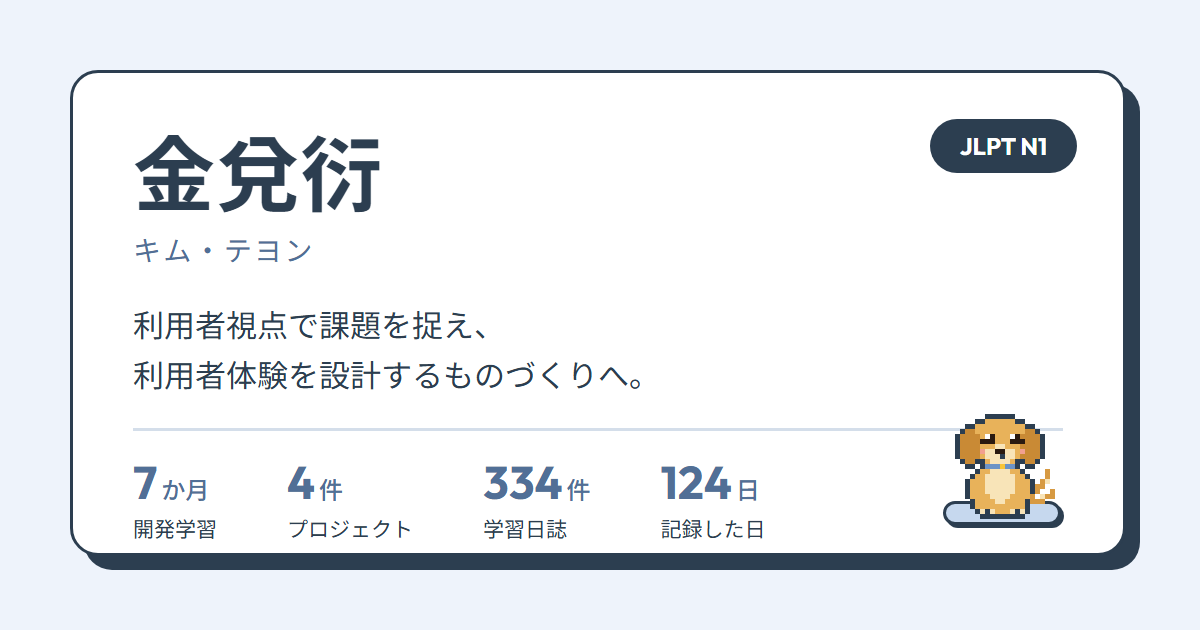
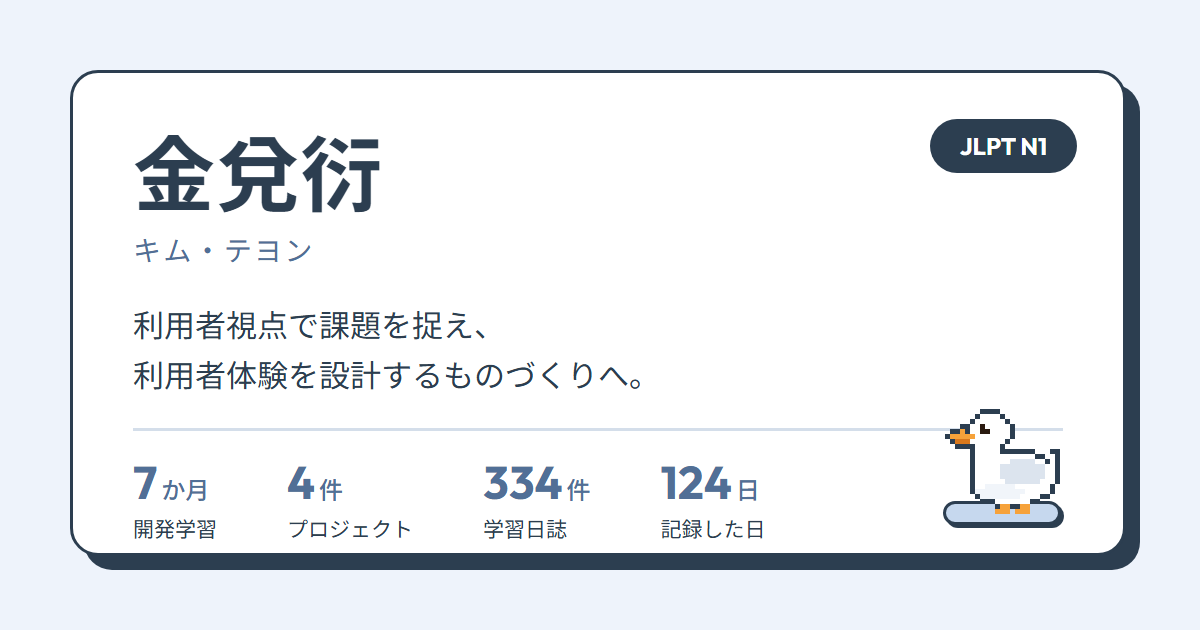
ポートフォリオサイトを更新

Changed region(s): [[0.7708, 0.6333, 0.8942, 0.8444]]

diff --git a/buddy.js b/buddy.js
@@ -1,7 +1,7 @@
 /* ==========================================================================
-   안내견 — 화면 오른쪽 아래에서 자고 있다가, 누르면 깨어나 검색 말풍선을 띄운다.
+   안내 오리 — 화면 오른쪽 아래에서 자고 있다가, 누르면 깨어나 검색 말풍선을 띄운다.
    입력한 말에서 키워드를 찾아 사이트 안의 해당 화면으로 안내한다 (AI 답변이 아니라 키워드 안내).
-   강아지는 직접 찍은 도트 그림(SVG). 옛 Office/Windows 도우미의 그림·이름은 쓰지 않는다.
+   오리는 직접 찍은 도트 그림(SVG). 옛 Office/Windows 도우미의 그림·이름은 쓰지 않는다.
    ========================================================================== */
 (function () {
   const T = {
@@ -13,7 +13,7 @@
       chips: ['実案件（BtoB）を見たい', '日本で働きたい理由', '日本語力は？', '学習の日誌', 'このサイトの作り方', '連絡先'],
       miss: 'すみません、見つけられませんでした。\nオプションから選んでみてください。',
       note: 'キーワードで該当ページへ案内します\n（AI の回答ではありません）',
-      dog: '案内犬（クリックで検索）',
+      dog: '案内役のアヒル（クリックで検索）',
     },
     ko: {
       title: '무엇을 도와 드릴까요?',
@@ -23,7 +23,7 @@
       chips: ['실제 안건(B2B) 보고 싶어', '일본에서 일하고 싶은 이유', '일본어 실력은?', '학습 일지', '이 사이트 제작 과정', '연락처'],
       miss: '죄송해요, 잘 찾지 못했어요.\n옵션에서 골라 보세요.',
       note: '키워드로 해당 페이지를 안내합니다\n(AI 답변이 아닙니다)',
-      dog: '안내견 (누르면 검색)',
+      dog: '안내 오리 (누르면 검색)',
     }
   };
 
@@ -51,10 +51,10 @@
   ];
 
   // 도트 리트리버 (24×23 칸, 직접 찍은 그림). 눈·꼬리는 그룹을 바꿔 보여 준다.
-  const DOG_SVG = `<svg class="px-dog" viewBox="0 0 24 23" shape-rendering="crispEdges" aria-hidden="true"><g class="px-base"><rect x="8" y="2" width="6" height="1" fill="#2C3E50"/><rect x="6" y="3" width="2" height="1" fill="#2C3E50"/><rect x="8" y="3" width="6" height="1" fill="#E8B25A"/><rect x="14" y="3" width="2" height="1" fill="#2C3E50"/><rect x="4" y="4" width="2" height="1" fill="#2C3E50"/><rect x="6" y="4" width="10" height="1" fill="#E8B25A"/><rect x="16" y="4" width="2" height="1" fill="#2C3E50"/><rect x="3" y="5" width="1" height="1" fill="#2C3E50"/><rect x="4" y="5" width="2" height="1" fill="#C98A35"/><rect x="6" y="5" width="10" height="1" fill="#E8B25A"/><rect x="16" y="5" width="2" height="1" fill="#C98A35"/><rect x="18" y="5" width="1" height="1" fill="#2C3E50"/><rect x="2" y="6" width="1" height="1" fill="#2C3E50"/><rect x="3" y="6" width="4" height="1" fill="#C98A35"/><rect x="7" y="6" width="8" height="1" fill="#E8B25A"/><rect x="15" y="6" width="4" height="1" fill="#C98A35"/><rect x="19" y="6" width="1" height="1" fill="#2C3E50"/><rect x="2" y="7" width="1" height="1" fill="#2C3E50"/><rect x="3" y="7" width="4" height="1" fill="#C98A35"/><rect x="7" y="7" width="8" height="1" fill="#E8B25A"/><rect x="15" y="7" width="4" height="1" fill="#C98A35"/><rect x="19" y="7" width="1" height="1" fill="#2C3E50"/><rect x="2" y="8" width="1" height="1" fill="#2C3E50"/><rect x="3" y="8" width="4" height="1" fill="#C98A35"/><rect x="7" y="8" width="3" height="1" fill="#E8B25A"/><rect x="10" y="8" width="2" height="1" fill="#F8E4B8"/><rect x="12" y="8" width="3" height="1" fill="#E8B25A"/><rect x="15" y="8" width="4" height="1" fill="#C98A35"/><rect x="19" y="8" width="1" height="1" fill="#2C3E50"/><rect x="2" y="9" width="1" height="1" fill="#2C3E50"/><rect x="3" y="9" width="4" height="1" fill="#C98A35"/><rect x="7" y="9" width="1" height="1" fill="#F2A08F"/><rect x="8" y="9" width="2" height="1" fill="#F8E4B8"/><rect x="10" y="9" width="2" height="1" fill="#2A1A10"/><rect x="12" y="9" width="2" height="1" fill="#F8E4B8"/><rect x="14" y="9" width="1" height="1" fill="#E8B25A"/><rect x="15" y="9" width="1" height="1" fill="#F2A08F"/><rect x="16" y="9" width="3" height="1" fill="#C98A35"/><rect x="19" y="9" width="1" height="1" fill="#2C3E50"/><rect x="2" y="10" width="1" height="1" fill="#2C3E50"/><rect x="3" y="10" width="4" height="1" fill="#C98A35"/><rect x="7" y="10" width="1" height="1" fill="#E8B25A"/><rect x="8" y="10" width="3" height="1" fill="#F8E4B8"/><rect x="11" y="10" width="1" height="1" fill="#2C3E50"/><rect x="12" y="10" width="2" height="1" fill="#F8E4B8"/><rect x="14" y="10" width="1" height="1" fill="#E8B25A"/><rect x="15" y="10" width="4" height="1" fill="#C98A35"/><rect x="19" y="10" width="1" height="1" fill="#2C3E50"/><rect x="3" y="11" width="1" height="1" fill="#2C3E50"/><rect x="4" y="11" width="2" height="1" fill="#C98A35"/><rect x="6" y="11" width="2" height="1" fill="#2C3E50"/><rect x="8" y="11" width="1" height="1" fill="#E8B25A"/><rect x="9" y="11" width="4" height="1" fill="#F8E4B8"/><rect x="13" y="11" width="1" height="1" fill="#E8B25A"/><rect x="14" y="11" width="2" height="1" fill="#2C3E50"/><rect x="16" y="11" width="2" height="1" fill="#C98A35"/><rect x="18" y="11" width="1" height="1" fill="#2C3E50"/><rect x="4" y="12" width="2" height="1" fill="#2C3E50"/><rect x="7" y="12" width="1" height="1" fill="#2C3E50"/><rect x="8" y="12" width="3" height="1" fill="#6B93C6"/><rect x="11" y="12" width="1" height="1" fill="#F8C537"/><rect x="12" y="12" width="2" height="1" fill="#6B93C6"/><rect x="14" y="12" width="1" height="1" fill="#2C3E50"/><rect x="16" y="12" width="2" height="1" fill="#2C3E50"/><rect x="6" y="13" width="1" height="1" fill="#2C3E50"/><rect x="7" y="13" width="2" height="1" fill="#E8B25A"/><rect x="9" y="13" width="4" height="1" fill="#F8E4B8"/><rect x="13" y="13" width="2" height="1" fill="#E8B25A"/><rect x="15" y="13" width="1" height="1" fill="#2C3E50"/><rect x="5" y="14" width="1" height="1" fill="#2C3E50"/><rect x="6" y="14" width="2" height="1" fill="#E8B25A"/><rect x="8" y="14" width="6" height="1" fill="#F8E4B8"/><rect x="14" y="14" width="2" height="1" fill="#E8B25A"/><rect x="16" y="14" width="1" height="1" fill="#2C3E50"/><rect x="4" y="15" width="1" height="1" fill="#2C3E50"/><rect x="5" y="15" width="3" height="1" fill="#E8B25A"/><rect x="8" y="15" width="6" height="1" fill="#F8E4B8"/><rect x="14" y="15" width="3" height="1" fill="#E8B25A"/><rect x="17" y="15" width="1" height="1" fill="#2C3E50"/><rect x="4" y="16" width="1" height="1" fill="#2C3E50"/><rect x="5" y="16" width="3" height="1" fill="#E8B25A"/><rect x="8" y="16" width="6" height="1" fill="#F8E4B8"/><rect x="14" y="16" width="3" height="1" fill="#E8B25A"/><rect x="17" y="16" width="1" height="1" fill="#2C3E50"/><rect x="4" y="17" width="1" height="1" fill="#2C3E50"/><rect x="5" y="17" width="3" height="1" fill="#E8B25A"/><rect x="8" y="17" width="6" height="1" fill="#F8E4B8"/><rect x="14" y="17" width="3" height="1" fill="#E8B25A"/><rect x="17" y="17" width="1" height="1" fill="#2C3E50"/><rect x="4" y="18" width="1" height="1" fill="#2C3E50"/><rect x="5" y="18" width="4" height="1" fill="#E8B25A"/><rect x="9" y="18" width="4" height="1" fill="#F8E4B8"/><rect x="13" y="18" width="4" height="1" fill="#E8B25A"/><rect x="17" y="18" width="1" height="1" fill="#2C3E50"/><rect x="5" y="19" width="1" height="1" fill="#2C3E50"/><rect x="6" y="19" width="4" height="1" fill="#E8B25A"/><rect x="10" y="19" width="2" height="1" fill="#F8E4B8"/><rect x="12" y="19" width="4" height="1" fill="#E8B25A"/><rect x="16" y="19" width="1" height="1" fill="#2C3E50"/><rect x="5" y="20" width="1" height="1" fill="#2C3E50"/><rect x="6" y="20" width="10" height="1" fill="#E8B25A"/><rect x="16" y="20" width="1" height="1" fill="#2C3E50"/><rect x="6" y="21" width="1" height="1" fill="#2C3E50"/><rect x="7" y="21" width="1" height="1" fill="#F8E4B8"/><rect x="8" y="21" width="1" height="1" fill="#2C3E50"/><rect x="9" y="21" width="1" height="1" fill="#F8E4B8"/><rect x="10" y="21" width="3" height="1" fill="#E8B25A"/><rect x="13" y="21" width="1" height="1" fill="#F8E4B8"/><rect x="14" y="21" width="1" height="1" fill="#2C3E50"/><rect x="15" y="21" width="1" height="1" fill="#F8E4B8"/><rect x="16" y="21" width="1" height="1" fill="#2C3E50"/><rect x="7" y="22" width="9" height="1" fill="#2C3E50"/></g><g class="px-eyes-open"><rect x="8" y="6" width="1" height="1" fill="#FFFFFF"/><rect x="9" y="6" width="1" height="1" fill="#2A1A10"/><rect x="13" y="6" width="1" height="1" fill="#FFFFFF"/><rect x="14" y="6" width="1" height="1" fill="#2A1A10"/><rect x="8" y="7" width="2" height="1" fill="#2A1A10"/><rect x="13" y="7" width="2" height="1" fill="#2A1A10"/></g><g class="px-eyes-shut"><rect x="7" y="7" width="3" height="1" fill="#2A1A10"/><rect x="13" y="7" width="3" height="1" fill="#2A1A10"/></g><g class="px-tail-a"><rect x="20" y="13" width="1" height="1" fill="#D79A42"/><rect x="20" y="14" width="1" height="1" fill="#D79A42"/><rect x="19" y="15" width="1" height="1" fill="#D79A42"/><rect x="20" y="15" width="1" height="1" fill="#F8E4B8"/><rect x="18" y="16" width="2" height="1" fill="#D79A42"/><rect x="18" y="17" width="1" height="1" fill="#D79A42"/><rect x="17" y="18" width="1" height="1" fill="#D79A42"/></g><g class="px-tail-b"><rect x="21" y="17" width="1" height="1" fill="#D79A42"/><rect x="19" y="18" width="1" height="1" fill="#F8E4B8"/><rect x="20" y="18" width="2" height="1" fill="#D79A42"/><rect x="17" y="19" width="3" height="1" fill="#D79A42"/></g></svg>`;
+  const DOG_SVG = `<svg class="px-dog" viewBox="0 0 24 23" shape-rendering="crispEdges" aria-hidden="true"><g class="px-base"><rect x="7" y="1" width="4" height="1" fill="#2C3E50"/><rect x="6" y="2" width="1" height="1" fill="#2C3E50"/><rect x="7" y="2" width="4" height="1" fill="#FFFFFF"/><rect x="11" y="2" width="1" height="1" fill="#2C3E50"/><rect x="5" y="3" width="1" height="1" fill="#2C3E50"/><rect x="6" y="3" width="6" height="1" fill="#FFFFFF"/><rect x="12" y="3" width="1" height="1" fill="#2C3E50"/><rect x="3" y="4" width="2" height="1" fill="#2C3E50"/><rect x="5" y="4" width="8" height="1" fill="#FFFFFF"/><rect x="13" y="4" width="1" height="1" fill="#2C3E50"/><rect x="1" y="5" width="2" height="1" fill="#2C3E50"/><rect x="3" y="5" width="1" height="1" fill="#F6A23A"/><rect x="4" y="5" width="1" height="1" fill="#2C3E50"/><rect x="5" y="5" width="8" height="1" fill="#FFFFFF"/><rect x="13" y="5" width="1" height="1" fill="#2C3E50"/><rect x="0" y="6" width="1" height="1" fill="#2C3E50"/><rect x="1" y="6" width="5" height="1" fill="#F6A23A"/><rect x="6" y="6" width="7" height="1" fill="#FFFFFF"/><rect x="13" y="6" width="1" height="1" fill="#2C3E50"/><rect x="1" y="7" width="1" height="1" fill="#2C3E50"/><rect x="2" y="7" width="3" height="1" fill="#D9781C"/><rect x="5" y="7" width="7" height="1" fill="#FFFFFF"/><rect x="12" y="7" width="1" height="1" fill="#2C3E50"/><rect x="2" y="8" width="4" height="1" fill="#2C3E50"/><rect x="6" y="8" width="5" height="1" fill="#FFFFFF"/><rect x="11" y="8" width="1" height="1" fill="#2C3E50"/><rect x="5" y="9" width="1" height="1" fill="#2C3E50"/><rect x="6" y="9" width="5" height="1" fill="#FFFFFF"/><rect x="11" y="9" width="7" height="1" fill="#2C3E50"/><rect x="5" y="10" width="1" height="1" fill="#2C3E50"/><rect x="6" y="10" width="12" height="1" fill="#FFFFFF"/><rect x="18" y="10" width="2" height="1" fill="#2C3E50"/><rect x="5" y="11" width="1" height="1" fill="#2C3E50"/><rect x="6" y="11" width="7" height="1" fill="#FFFFFF"/><rect x="13" y="11" width="5" height="1" fill="#DCE4EE"/><rect x="18" y="11" width="2" height="1" fill="#FFFFFF"/><rect x="20" y="11" width="1" height="1" fill="#2C3E50"/><rect x="5" y="12" width="1" height="1" fill="#2C3E50"/><rect x="6" y="12" width="5" height="1" fill="#FFFFFF"/><rect x="11" y="12" width="9" height="1" fill="#DCE4EE"/><rect x="20" y="12" width="1" height="1" fill="#FFFFFF"/><rect x="21" y="12" width="1" height="1" fill="#2C3E50"/><rect x="5" y="13" width="1" height="1" fill="#2C3E50"/><rect x="6" y="13" width="5" height="1" fill="#FFFFFF"/><rect x="11" y="13" width="9" height="1" fill="#DCE4EE"/><rect x="20" y="13" width="2" height="1" fill="#FFFFFF"/><rect x="22" y="13" width="1" height="1" fill="#2C3E50"/><rect x="5" y="14" width="1" height="1" fill="#2C3E50"/><rect x="6" y="14" width="5" height="1" fill="#FFFFFF"/><rect x="11" y="14" width="9" height="1" fill="#DCE4EE"/><rect x="20" y="14" width="2" height="1" fill="#FFFFFF"/><rect x="22" y="14" width="1" height="1" fill="#2C3E50"/><rect x="5" y="15" width="1" height="1" fill="#2C3E50"/><rect x="6" y="15" width="6" height="1" fill="#FFFFFF"/><rect x="12" y="15" width="7" height="1" fill="#DCE4EE"/><rect x="19" y="15" width="3" height="1" fill="#FFFFFF"/><rect x="22" y="15" width="1" height="1" fill="#2C3E50"/><rect x="5" y="16" width="1" height="1" fill="#2C3E50"/><rect x="6" y="16" width="2" height="1" fill="#FFFFFF"/><rect x="8" y="16" width="6" height="1" fill="#F1F5FA"/><rect x="14" y="16" width="7" height="1" fill="#FFFFFF"/><rect x="21" y="16" width="1" height="1" fill="#2C3E50"/><rect x="5" y="17" width="1" height="1" fill="#2C3E50"/><rect x="6" y="17" width="10" height="1" fill="#F1F5FA"/><rect x="16" y="17" width="5" height="1" fill="#FFFFFF"/><rect x="21" y="17" width="1" height="1" fill="#2C3E50"/><rect x="6" y="18" width="1" height="1" fill="#2C3E50"/><rect x="7" y="18" width="8" height="1" fill="#F1F5FA"/><rect x="15" y="18" width="4" height="1" fill="#FFFFFF"/><rect x="19" y="18" width="2" height="1" fill="#2C3E50"/><rect x="7" y="19" width="3" height="1" fill="#2C3E50"/><rect x="10" y="19" width="7" height="1" fill="#FFFFFF"/><rect x="17" y="19" width="2" height="1" fill="#2C3E50"/><rect x="10" y="20" width="1" height="1" fill="#2C3E50"/><rect x="11" y="20" width="2" height="1" fill="#F6A23A"/><rect x="13" y="20" width="2" height="1" fill="#2C3E50"/><rect x="15" y="20" width="2" height="1" fill="#F6A23A"/><rect x="10" y="21" width="3" height="1" fill="#F6A23A"/><rect x="14" y="21" width="3" height="1" fill="#F6A23A"/></g><g class="px-eyes-open"><rect x="7" y="4" width="1" height="1" fill="#2A1A10"/><rect x="8" y="4" width="1" height="1" fill="#FFFFFF"/><rect x="7" y="5" width="2" height="1" fill="#2A1A10"/></g><g class="px-eyes-shut"><rect x="6" y="5" width="3" height="1" fill="#2A1A10"/></g><g class="px-tail-a"><rect x="21" y="9" width="2" height="1" fill="#2C3E50"/><rect x="21" y="10" width="1" height="1" fill="#FFFFFF"/><rect x="22" y="10" width="1" height="1" fill="#2C3E50"/><rect x="21" y="11" width="1" height="1" fill="#FFFFFF"/><rect x="22" y="11" width="1" height="1" fill="#2C3E50"/><rect x="21" y="12" width="1" height="1" fill="#FFFFFF"/><rect x="22" y="12" width="1" height="1" fill="#2C3E50"/></g><g class="px-tail-b"><rect x="22" y="10" width="1" height="1" fill="#2C3E50"/><rect x="22" y="11" width="1" height="1" fill="#FFFFFF"/><rect x="23" y="11" width="1" height="1" fill="#2C3E50"/><rect x="21" y="12" width="2" height="1" fill="#2C3E50"/></g></svg>`;
 
   // 엎드려 자는 도트 리트리버 (28×13 칸). 잘 때는 이 그림, 깨면 앉은 그림.
-  const SLEEP_SVG = `<svg class="px-sleep" viewBox="0 4 28 13" shape-rendering="crispEdges" aria-hidden="true"><g class="px-sleep-body"><rect x="5" y="4" width="7" height="1" fill="#2C3E50"/><rect x="4" y="5" width="1" height="1" fill="#2C3E50"/><rect x="5" y="5" width="7" height="1" fill="#E8B25A"/><rect x="12" y="5" width="1" height="1" fill="#2C3E50"/><rect x="3" y="6" width="1" height="1" fill="#2C3E50"/><rect x="4" y="6" width="9" height="1" fill="#E8B25A"/><rect x="13" y="6" width="10" height="1" fill="#2C3E50"/><rect x="3" y="7" width="1" height="1" fill="#2C3E50"/><rect x="4" y="7" width="7" height="1" fill="#E8B25A"/><rect x="11" y="7" width="2" height="1" fill="#C98A35"/><rect x="13" y="7" width="10" height="1" fill="#E8B25A"/><rect x="23" y="7" width="2" height="1" fill="#2C3E50"/><rect x="2" y="8" width="1" height="1" fill="#2C3E50"/><rect x="3" y="8" width="2" height="1" fill="#E8B25A"/><rect x="5" y="8" width="1" height="1" fill="#2A1A10"/><rect x="6" y="8" width="3" height="1" fill="#E8B25A"/><rect x="9" y="8" width="1" height="1" fill="#2A1A10"/><rect x="10" y="8" width="1" height="1" fill="#E8B25A"/><rect x="11" y="8" width="3" height="1" fill="#C98A35"/><rect x="14" y="8" width="1" height="1" fill="#6B93C6"/><rect x="15" y="8" width="9" height="1" fill="#E8B25A"/><rect x="24" y="8" width="3" height="1" fill="#D79A42"/><rect x="1" y="9" width="2" height="1" fill="#2C3E50"/><rect x="3" y="9" width="2" height="1" fill="#F8E4B8"/><rect x="5" y="9" width="1" height="1" fill="#E8B25A"/><rect x="6" y="9" width="3" height="1" fill="#2A1A10"/><rect x="9" y="9" width="1" height="1" fill="#E8B25A"/><rect x="10" y="9" width="4" height="1" fill="#C98A35"/><rect x="14" y="9" width="1" height="1" fill="#6B93C6"/><rect x="15" y="9" width="11" height="1" fill="#E8B25A"/><rect x="26" y="9" width="2" height="1" fill="#D79A42"/><rect x="0" y="10" width="1" height="1" fill="#2C3E50"/><rect x="1" y="10" width="1" height="1" fill="#2A1A10"/><rect x="2" y="10" width="4" height="1" fill="#F8E4B8"/><rect x="6" y="10" width="3" height="1" fill="#E8B25A"/><rect x="9" y="10" width="1" height="1" fill="#F2A08F"/><rect x="10" y="10" width="4" height="1" fill="#C98A35"/><rect x="14" y="10" width="1" height="1" fill="#6B93C6"/><rect x="15" y="10" width="2" height="1" fill="#F8E4B8"/><rect x="17" y="10" width="10" height="1" fill="#E8B25A"/><rect x="27" y="10" width="1" height="1" fill="#F8E4B8"/><rect x="0" y="11" width="1" height="1" fill="#2C3E50"/><rect x="1" y="11" width="1" height="1" fill="#2A1A10"/><rect x="2" y="11" width="5" height="1" fill="#F8E4B8"/><rect x="7" y="11" width="3" height="1" fill="#E8B25A"/><rect x="10" y="11" width="4" height="1" fill="#C98A35"/><rect x="14" y="11" width="1" height="1" fill="#6B93C6"/><rect x="15" y="11" width="3" height="1" fill="#F8E4B8"/><rect x="18" y="11" width="9" height="1" fill="#E8B25A"/><rect x="27" y="11" width="1" height="1" fill="#2C3E50"/><rect x="1" y="12" width="1" height="1" fill="#2C3E50"/><rect x="2" y="12" width="4" height="1" fill="#F8E4B8"/><rect x="6" y="12" width="5" height="1" fill="#E8B25A"/><rect x="11" y="12" width="3" height="1" fill="#C98A35"/><rect x="14" y="12" width="1" height="1" fill="#6B93C6"/><rect x="15" y="12" width="4" height="1" fill="#F8E4B8"/><rect x="19" y="12" width="7" height="1" fill="#E8B25A"/><rect x="26" y="12" width="1" height="1" fill="#2C3E50"/><rect x="2" y="13" width="1" height="1" fill="#2C3E50"/><rect x="3" y="13" width="8" height="1" fill="#F8E4B8"/><rect x="11" y="13" width="2" height="1" fill="#C98A35"/><rect x="13" y="13" width="1" height="1" fill="#F8E4B8"/><rect x="14" y="13" width="1" height="1" fill="#F8C537"/><rect x="15" y="13" width="3" height="1" fill="#F8E4B8"/><rect x="18" y="13" width="8" height="1" fill="#E8B25A"/><rect x="26" y="13" width="1" height="1" fill="#2C3E50"/><rect x="1" y="14" width="1" height="1" fill="#2C3E50"/><rect x="2" y="14" width="3" height="1" fill="#F8E4B8"/><rect x="5" y="14" width="1" height="1" fill="#2C3E50"/><rect x="6" y="14" width="3" height="1" fill="#F8E4B8"/><rect x="9" y="14" width="1" height="1" fill="#2C3E50"/><rect x="10" y="14" width="2" height="1" fill="#F8E4B8"/><rect x="12" y="14" width="3" height="1" fill="#2C3E50"/><rect x="15" y="14" width="7" height="1" fill="#E8B25A"/><rect x="22" y="14" width="4" height="1" fill="#2C3E50"/><rect x="2" y="15" width="10" height="1" fill="#2C3E50"/><rect x="15" y="15" width="7" height="1" fill="#2C3E50"/></g></svg>`;
+  const SLEEP_SVG = `<svg class="px-sleep" viewBox="0 4 28 13" shape-rendering="crispEdges" aria-hidden="true"><g class="px-sleep-body"><rect x="6" y="4" width="4" height="1" fill="#2C3E50"/><rect x="5" y="5" width="1" height="1" fill="#2C3E50"/><rect x="6" y="5" width="4" height="1" fill="#FFFFFF"/><rect x="10" y="5" width="2" height="1" fill="#2C3E50"/><rect x="4" y="6" width="1" height="1" fill="#2C3E50"/><rect x="5" y="6" width="7" height="1" fill="#FFFFFF"/><rect x="12" y="6" width="9" height="1" fill="#2C3E50"/><rect x="26" y="6" width="1" height="1" fill="#2C3E50"/><rect x="4" y="7" width="1" height="1" fill="#2C3E50"/><rect x="5" y="7" width="4" height="1" fill="#FFFFFF"/><rect x="9" y="7" width="1" height="1" fill="#2C3E50"/><rect x="10" y="7" width="11" height="1" fill="#FFFFFF"/><rect x="21" y="7" width="2" height="1" fill="#2C3E50"/><rect x="25" y="7" width="1" height="1" fill="#2C3E50"/><rect x="26" y="7" width="1" height="1" fill="#FFFFFF"/><rect x="27" y="7" width="1" height="1" fill="#2C3E50"/><rect x="2" y="8" width="2" height="1" fill="#2C3E50"/><rect x="4" y="8" width="3" height="1" fill="#FFFFFF"/><rect x="7" y="8" width="3" height="1" fill="#2A1A10"/><rect x="10" y="8" width="5" height="1" fill="#FFFFFF"/><rect x="15" y="8" width="7" height="1" fill="#DCE4EE"/><rect x="22" y="8" width="1" height="1" fill="#FFFFFF"/><rect x="23" y="8" width="2" height="1" fill="#2C3E50"/><rect x="25" y="8" width="2" height="1" fill="#FFFFFF"/><rect x="27" y="8" width="1" height="1" fill="#2C3E50"/><rect x="1" y="9" width="1" height="1" fill="#2C3E50"/><rect x="2" y="9" width="3" height="1" fill="#F6A23A"/><rect x="5" y="9" width="8" height="1" fill="#FFFFFF"/><rect x="13" y="9" width="11" height="1" fill="#DCE4EE"/><rect x="24" y="9" width="3" height="1" fill="#FFFFFF"/><rect x="27" y="9" width="1" height="1" fill="#2C3E50"/><rect x="1" y="10" width="1" height="1" fill="#2C3E50"/><rect x="2" y="10" width="4" height="1" fill="#F6A23A"/><rect x="6" y="10" width="7" height="1" fill="#FFFFFF"/><rect x="13" y="10" width="11" height="1" fill="#DCE4EE"/><rect x="24" y="10" width="2" height="1" fill="#FFFFFF"/><rect x="26" y="10" width="1" height="1" fill="#2C3E50"/><rect x="2" y="11" width="3" height="1" fill="#D9781C"/><rect x="5" y="11" width="9" height="1" fill="#FFFFFF"/><rect x="14" y="11" width="10" height="1" fill="#DCE4EE"/><rect x="24" y="11" width="2" height="1" fill="#FFFFFF"/><rect x="26" y="11" width="1" height="1" fill="#2C3E50"/><rect x="4" y="12" width="1" height="1" fill="#2C3E50"/><rect x="5" y="12" width="11" height="1" fill="#FFFFFF"/><rect x="16" y="12" width="5" height="1" fill="#DCE4EE"/><rect x="21" y="12" width="5" height="1" fill="#FFFFFF"/><rect x="26" y="12" width="1" height="1" fill="#2C3E50"/><rect x="5" y="13" width="1" height="1" fill="#2C3E50"/><rect x="6" y="13" width="19" height="1" fill="#FFFFFF"/><rect x="25" y="13" width="1" height="1" fill="#2C3E50"/><rect x="6" y="14" width="1" height="1" fill="#2C3E50"/><rect x="7" y="14" width="2" height="1" fill="#FFFFFF"/><rect x="9" y="14" width="10" height="1" fill="#F1F5FA"/><rect x="19" y="14" width="5" height="1" fill="#FFFFFF"/><rect x="24" y="14" width="1" height="1" fill="#2C3E50"/><rect x="7" y="15" width="1" height="1" fill="#2C3E50"/><rect x="8" y="15" width="12" height="1" fill="#F1F5FA"/><rect x="20" y="15" width="2" height="1" fill="#FFFFFF"/><rect x="22" y="15" width="2" height="1" fill="#2C3E50"/><rect x="8" y="16" width="5" height="1" fill="#2C3E50"/><rect x="13" y="16" width="6" height="1" fill="#FFFFFF"/><rect x="19" y="16" width="3" height="1" fill="#2C3E50"/></g></svg>`;
 
   const lang = () => (typeof currentLanguage !== 'undefined' && currentLanguage === 'ko') ? 'ko' : 'ja';
   const reduced = matchMedia('(prefers-reduced-motion: reduce)').matches;
@@ -102,7 +102,7 @@
     for (const ch of text) {
       if (id !== runId) return;
       say.textContent += ch;
-      await wait(26);
+      await wait(55);
     }
     say.classList.remove('typing');
   }

diff --git a/intro.js b/intro.js
@@ -1,6 +1,6 @@
 /* ==========================================================================
-   첫 방문 입장 화면 — 안내견 말풍선에 보고 싶은 것을 적고 Enter →
-   프로젝트 캡처가 잠깐 지나가고 → 문이 좌우로 열리며 그 화면으로 들어간다.
+   첫 방문 입장 화면 — 안내 오리 말풍선에 보고 싶은 것을 적고 Enter →
+   프로젝트 캡처가 잠깐 지나가고 → 마지막 캡처가 화면 가득 커지며 그 화면으로 들어간다 (문 없음).
    · 같은 창에서는 한 번만, 홈 주소로 들어왔을 때만 보인다 (특정 페이지 링크로 오면 건너뜀)
    · ?intro 를 붙이면 다시 볼 수 있다
    · 키워드로 안내한다 (AI 답변이 아니다 — 화면 아래에도 밝힌다)
@@ -57,30 +57,37 @@
       ja: 'チームで作った\n「タイピング練習プラットフォーム」へ\nご案内します！', ko: '팀으로 만든 「타이핑 연습 플랫폼」으로\n안내할게요!' },
     { re: /作り方|制作|このサイト|ポートフォリオサイト|제작|이 사이트|만든 과정/i, hash: '#/project/portfolio/overview', first: 'portfolio',
       ja: 'このポートフォリオサイトの制作記録へ\nご案内します！', ko: '이 포트폴리오 사이트의 제작 기록으로\n안내할게요!' },
-    { re: /日誌|ログ|学習|勉強|log|일지|학습|공부/i, hash: '#/log', first: null,
+    { re: /日誌|ログ|学習|勉強|log|일지|학습|공부/i, hash: '#/log', first: null, icon: 'bi-journal-text', card: { ja: '学習日誌（2026年3月〜）', ko: '학습 일지 (2026년 3월~)' },
       ja: '2026年3月からの学習の日誌へ\nご案内します！', ko: '2026년 3월부터의 학습 일지로\n안내할게요!' },
-    { re: /志望|理由|なぜ日本|日本で働|働きたい|入社|지망|이유|왜 일본|일본에서|입사/i, hash: '#/about', first: null, scroll: '.about-why-section',
+    { re: /志望|理由|なぜ日本|日本で働|働きたい|入社|지망|이유|왜 일본|일본에서|입사/i, hash: '#/about', first: null, scroll: '.about-why-section', icon: 'bi-geo-alt', card: { ja: '日本で働きたい理由', ko: '일본에서 일하고 싶은 이유' },
       ja: '「日本で働きたい理由」へ\nご案内します！', ko: '「일본에서 일하고 싶은 이유」로\n안내할게요!' },
-    { re: /日本語|JLPT|N1|自己|経歴|自己紹介|about|일본어|자기소개|경력/i, hash: '#/about', first: null,
+    { re: /日本語|JLPT|N1|自己|経歴|自己紹介|about|일본어|자기소개|경력/i, hash: '#/about', first: null, icon: 'bi-person', card: { ja: '自己紹介（経歴・日本語・自己PR）', ko: '자기소개 (경력·일본어·자기PR)' },
       ja: '自己紹介（経歴・日本語・自己PR）へ\nご案内します！', ko: '자기소개(경력·일본어·자기 PR)로\n안내할게요!' },
-    { re: /連絡|コンタクト|contact|メール|연락|메일/i, hash: '#/contact', first: null,
+    { re: /連絡|コンタクト|contact|メール|연락|메일/i, hash: '#/contact', first: null, icon: 'bi-envelope', card: { ja: '連絡先', ko: '연락처' },
       ja: '連絡先のページへご案内します！', ko: '연락처 페이지로 안내할게요!' },
   ];
-  const HOME = { hash: '#/', first: null,
+  const HOME = { hash: '#/', first: null, icon: 'bi-house', card: { ja: 'ホーム（4つのプロジェクト）', ko: '홈 (4개의 프로젝트)' },
     ja: 'ホームへご案内します！\n4つのプロジェクトをご覧ください。', ko: '홈으로 안내할게요!\n4개의 프로젝트를 둘러봐 주세요.' };
 
   const reduced = matchMedia('(prefers-reduced-motion: reduce)').matches;
   const wait = ms => new Promise(r => setTimeout(r, reduced ? 0 : ms));
-  const lang = () => (typeof currentLanguage !== 'undefined' && currentLanguage === 'ko') ? 'ko' : 'ja';
+  // 사이트(initPage)가 언어를 정하기 전에 그려질 수 있어, 같은 규칙(?lang → 저장된 값)으로 먼저 읽는다
+  let langReady = false;
+  const lang = () => {
+    if (langReady && typeof currentLanguage !== 'undefined') return currentLanguage === 'ko' ? 'ko' : 'ja';
+    const ql = params.get('lang');
+    let l = (ql === 'ja' || ql === 'ko') ? ql : null;
+    if (!l) { try { l = localStorage.getItem('portfolio_lang'); } catch (e) { /* 무시 */ } }
+    return l === 'ko' ? 'ko' : 'ja';
+  };
+  const markLangReady = () => { langReady = true; };
+  if (document.readyState === 'complete') markLangReady(); else window.addEventListener('load', markLangReady);
   const dogSvg = (document.querySelector('#bd-dog .px-dog') || {}).outerHTML || '';
 
   const root = document.createElement('div');
   root.id = 'intro';
   root.className = 'it';
   root.innerHTML = `
-    <div class="it-door left" aria-hidden="true"><span class="it-panel top"></span><span class="it-panel bottom"></span><span class="it-knob"></span></div>
-    <div class="it-door right" aria-hidden="true"><span class="it-panel top"></span><span class="it-panel bottom"></span><span class="it-knob"></span></div>
-    <div class="it-jamb" aria-hidden="true"></div>
     <div class="it-lang" role="group" aria-label="Language">
       <button type="button" data-lang="ja">日本語</button><button type="button" data-lang="ko">한국어</button>
     </div>
@@ -130,7 +137,7 @@
     for (const ch of text) {
       if (id !== runId) return;
       say.textContent += ch;
-      await wait(28);
+      await wait(50);
     }
     say.classList.remove('typing');
   }
@@ -167,10 +174,10 @@
     open(r.hash, r.scroll);
   }
 
-  // 프로젝트 첫 화면을 차례로 (고른 프로젝트를 맨 앞에)
+  // 프로젝트 첫 화면을 차례로 (고른 프로젝트를 맨 끝에 — 그 캡처가 커지며 실제 화면으로 이어진다)
   async function montage(first) {
     const order = ['hospital', 'gakong', 'typing', 'portfolio'];
-    if (first) { order.splice(order.indexOf(first), 1); order.unshift(first); }
+    if (first) { order.splice(order.indexOf(first), 1); order.push(first); }
     const frame = $('it-frame'), cap = $('it-cap'), dots = $('it-dots');
     frame.innerHTML = order.map(k => `<img src="${SHOTS[k].src}" alt="">`).join('');
     dots.innerHTML = order.map(() => '<i></i>').join('');
@@ -182,22 +189,29 @@
       imgs.forEach((im, j) => im.classList.toggle('on', j === i));
       ds.forEach((d, j) => d.classList.toggle('on', j <= i));
       cap.innerHTML = `${SHOTS[order[i]][lang()]}<small>${SHOTS[order[i]].en}</small>`;
-      await wait(i === 0 && first ? 900 : 520);
+      await wait(i === order.length - 1 ? 1000 : 520);
     }
   }
 
-  // 뒤의 실제 화면을 먼저 바꿔 두고 문을 연다
+  // 뒤의 실제 화면을 먼저 바꿔 두고, 마지막 캡처를 화면 가득 키우며 사라지게 한다
   async function open(hash, scrollSel) {
     if (hash && hash !== '#/' && location.hash !== hash) {
       history.pushState(null, '', hash);
       if (typeof applyRoute === 'function') applyRoute();
     }
-    // 문이 열리기 전에 뒤 화면을 해당 카드 위치로 옮겨 둔다
+    // 캡처가 커지기 전에 뒤 화면을 해당 카드 위치로 옮겨 둔다
     const target = scrollSel && document.querySelector(scrollSel);
     if (target) target.scrollIntoView({ block: 'start' });
     await wait(150);
+    const frame = $('it-frame');
+    if (root.classList.contains('montage-on') && frame) {
+      const b = frame.getBoundingClientRect();
+      const k = Math.max(innerWidth / b.width, innerHeight / b.height) * 1.02;
+      const dx = innerWidth / 2 - (b.left + b.width / 2), dy = innerHeight / 2 - (b.top + b.height / 2);
+      frame.style.transform = `translate(${dx}px, ${dy}px) scale(${k})`;
+    }
     root.classList.add('open');
-    await wait(1100);
+    await wait(950);
     root.remove();
     document.body.classList.remove('intro-open');
   }

diff --git a/style.css b/style.css
@@ -3473,7 +3473,7 @@ table.sheet tr.sh-date td * { color: inherit; }
 .proto-made i { color: var(--blue-text); }
 
 /* ==========================================================================
-   안내견 — 오른쪽 아래에서 자다가, 누르면 검색 말풍선 (buddy.js)
+   안내 오리 — 오른쪽 아래에서 자다가, 누르면 검색 말풍선 (buddy.js)
    ========================================================================== */
 /* 넓은 화면에서는 화면 끝이 아니라 본문(최대 1200px) 오른쪽 모서리에 걸쳐 앉는다 */
 .bd { position: fixed; right: max(16px, calc((100vw - 1200px) / 2 - 64px)); bottom: 12px; z-index: 1100; display: flex; flex-direction: column; align-items: flex-end; pointer-events: none; }
@@ -3548,7 +3548,7 @@ table.sheet tr.sh-date td * { color: inherit; }
 .bd-opts button::before { content: '› '; color: var(--blue-text); font-weight: 700; }
 .bd-opts button:hover { background: var(--bd-tip-hover); }
 .bd-note { margin-top: 9px; font-size: 10.5px; line-height: 1.5; color: #7A7350; white-space: pre-line; }
-/* 강아지 아래 쿠션 — 사이트 버튼과 같은 테두리·그림자 */
+/* 오리 아래 쿠션 — 사이트 버튼과 같은 테두리·그림자 */
 .bd-dog { isolation: isolate; }
 .bd-dog::before { content: ''; position: absolute; z-index: -1; left: 2%; right: 2%; bottom: -5px; height: 15px;
   background: var(--light-blue); border: 2px solid var(--dark-color); border-radius: 999px; box-shadow: 2px 2px 0 var(--dark-color); }
@@ -3595,37 +3595,16 @@ table.sheet tr.sh-date td * { color: inherit; }
 }
 
 /* ==========================================================================
-   첫 방문 입장 화면 (intro.js) — 안내견 말풍선 → 프로젝트 캡처 → 문이 좌우로 열림
+   첫 방문 입장 화면 (intro.js) — 안내 오리 말풍선 → 프로젝트 캡처 → 캡처가 화면 가득 커지며 사이트로
    ========================================================================== */
 body.intro-open { overflow: hidden; }
 body.intro-open .bd { visibility: hidden; }
-.it { position: fixed; inset: 0; z-index: 10000; font-family: var(--font-main); perspective: 1800px; }
-/* 여닫이 문 두 짝 — 패널(홈)·금색 손잡이·가운데 틈으로 「문」임이 보이게 */
-.it-door { position: absolute; top: 0; bottom: 0; width: 50%; overflow: hidden; backface-visibility: hidden;
-  transition: transform 1.1s cubic-bezier(.6, 0, .2, 1); }
-.it-door.left { left: 0; transform-origin: left center; border-right: 3px solid #101A26;
-  background: linear-gradient(90deg, #22344B 0%, #2B425D 82%, #233650 100%); }
-.it-door.right { right: 0; transform-origin: right center; border-left: 3px solid #101A26;
-  background: linear-gradient(270deg, #22344B 0%, #2B425D 82%, #233650 100%); }
-.it-panel { position: absolute; left: 13%; right: 13%; border: 3px solid rgba(198, 216, 238, .30); border-radius: 14px;
-  box-shadow: inset 0 0 0 7px rgba(10, 18, 28, .22), inset 0 0 0 9px rgba(198, 216, 238, .10); }
-.it-panel.top { top: 7%; height: 38%; }
-.it-panel.bottom { top: 51%; height: 42%; }
-.it-knob { position: absolute; top: calc(76% - 13px); width: 26px; height: 26px; border-radius: 50%;
-  background: #E8B25A; border: 3px solid #101A26; box-shadow: 2px 2px 0 #101A26, inset -3px -3px 0 rgba(0, 0, 0, .18); }
-.it-door.left .it-knob { right: 26px; }
-.it-door.right .it-knob { left: 26px; }
-/* 문틀 */
-.it-jamb { position: absolute; inset: 0; border: 14px solid #101A26; border-bottom-width: 22px; pointer-events: none; transition: opacity .4s ease; }
-.it.open .it-jamb { opacity: 0; }
-.it.open .it-door.left { transform: rotateY(-100deg); }
-.it.open .it-door.right { transform: rotateY(100deg); }
-@media (max-width: 480px) {
-  .it-knob { width: 20px; height: 20px; top: calc(76% - 10px); }
-  .it-door.left .it-knob { right: 14px; }
-  .it-door.right .it-knob { left: 14px; }
-  .it-jamb { border-width: 8px; border-bottom-width: 12px; }
-}
+.it { position: fixed; inset: 0; z-index: 10000; font-family: var(--font-main); }
+/* 어두운 도트 배경 — 들어갈 때 서서히 걷힌다 */
+.it::before { content: ''; position: absolute; inset: 0; background-color: #23344A;
+  background-image: radial-gradient(rgba(198, 216, 238, .16) 1px, transparent 1px); background-size: 22px 22px;
+  transition: opacity .55s ease .3s; }
+.it.open::before { opacity: 0; }
 
 .it-lang { position: absolute; top: 24px; right: 24px; display: flex; border: 1.5px solid var(--light-blue); border-radius: 999px; overflow: hidden; z-index: 3; }
 .it-lang button { border: 0; background: transparent; padding: 5px 12px; min-height: 30px; font: inherit; font-size: .75rem; font-weight: 700; cursor: pointer; color: var(--light-blue); }
@@ -3674,9 +3653,12 @@ body.intro-open .bd { visibility: hidden; }
 .it-montage { position: absolute; inset: 0; display: flex; flex-direction: column; align-items: center; justify-content: center; gap: 14px; padding: 16px;
   opacity: 0; pointer-events: none; transition: opacity .3s ease; }
 .it.montage-on .it-montage { opacity: 1; }
-.it.open .it-montage { opacity: 0; }
+.it.open .it-cap, .it.open .it-dots { opacity: 0; transition: opacity .2s ease; }
 .it-frame { width: min(760px, 92vw); aspect-ratio: 16 / 10; border: 2px solid var(--light-blue); border-radius: 14px; overflow: hidden; background: #fff;
-  box-shadow: 0 18px 50px rgba(0, 0, 0, .45); position: relative; }
+  box-shadow: 0 18px 50px rgba(0, 0, 0, .45); position: relative;
+  transition: transform .8s cubic-bezier(.6, 0, .2, 1), border-radius .8s ease, opacity .45s ease .45s; }
+/* 마지막 캡처가 화면 가득 커지며(크기는 intro.js 가 계산) 사라진다 */
+.it.open .it-frame { border-radius: 0; border-color: transparent; box-shadow: none; opacity: 0; }
 .it-frame img { position: absolute; inset: 0; width: 100%; height: 100%; object-fit: cover; object-position: top; opacity: 0;
   transform: scale(1.04); transition: opacity .25s ease, transform 1.2s ease; }
 .it-frame img.on { opacity: 1; transform: none; }
@@ -3689,7 +3671,7 @@ body.intro-open .bd { visibility: hidden; }
 .it.open .it-note { opacity: 0; }
 @media (max-width: 480px) { .it-dog { width: 120px; height: 115px; margin-left: 70px; } }
 @media (prefers-reduced-motion: reduce) {
-  .it-door, .it-stage, .it-buddy, .it-montage, .it-frame img, .it-jamb { transition: none !important; }
+  .it::before, .it-stage, .it-buddy, .it-montage, .it-frame, .it-frame img { transition: none !important; }
   .it-dog .px-tail-a, .it-dog .px-tail-b, .it-dog .px-eyes-open, .it-dog .px-eyes-shut, .it-dog.jump { animation: none !important; }
 }
 

diff --git a/index.html b/index.html
@@ -25,7 +25,7 @@
   <!-- Google Fonts & Bootstrap Icons CDN -->
   <link rel="preconnect" href="https://fonts.googleapis.com">
   <link rel="stylesheet" href="https://cdn.jsdelivr.net/npm/bootstrap-icons@1.11.3/font/bootstrap-icons.min.css">
-  <link rel="stylesheet" href="style.css?v=21.2">
+  <link rel="stylesheet" href="style.css?v=22.2">
 </head>
 
 <body>
@@ -681,9 +681,9 @@
     </p>
     <style>#loading-screen{display:none!important}</style>
   </noscript>
-  <script src="script.js?v=21.2"></script>
-  <script src="buddy.js?v=21.2"></script>
-  <script src="intro.js?v=21.2"></script>
+  <script src="script.js?v=22.2"></script>
+  <script src="buddy.js?v=22.2"></script>
+  <script src="intro.js?v=22.2"></script>
 </body>
 
 </html>
